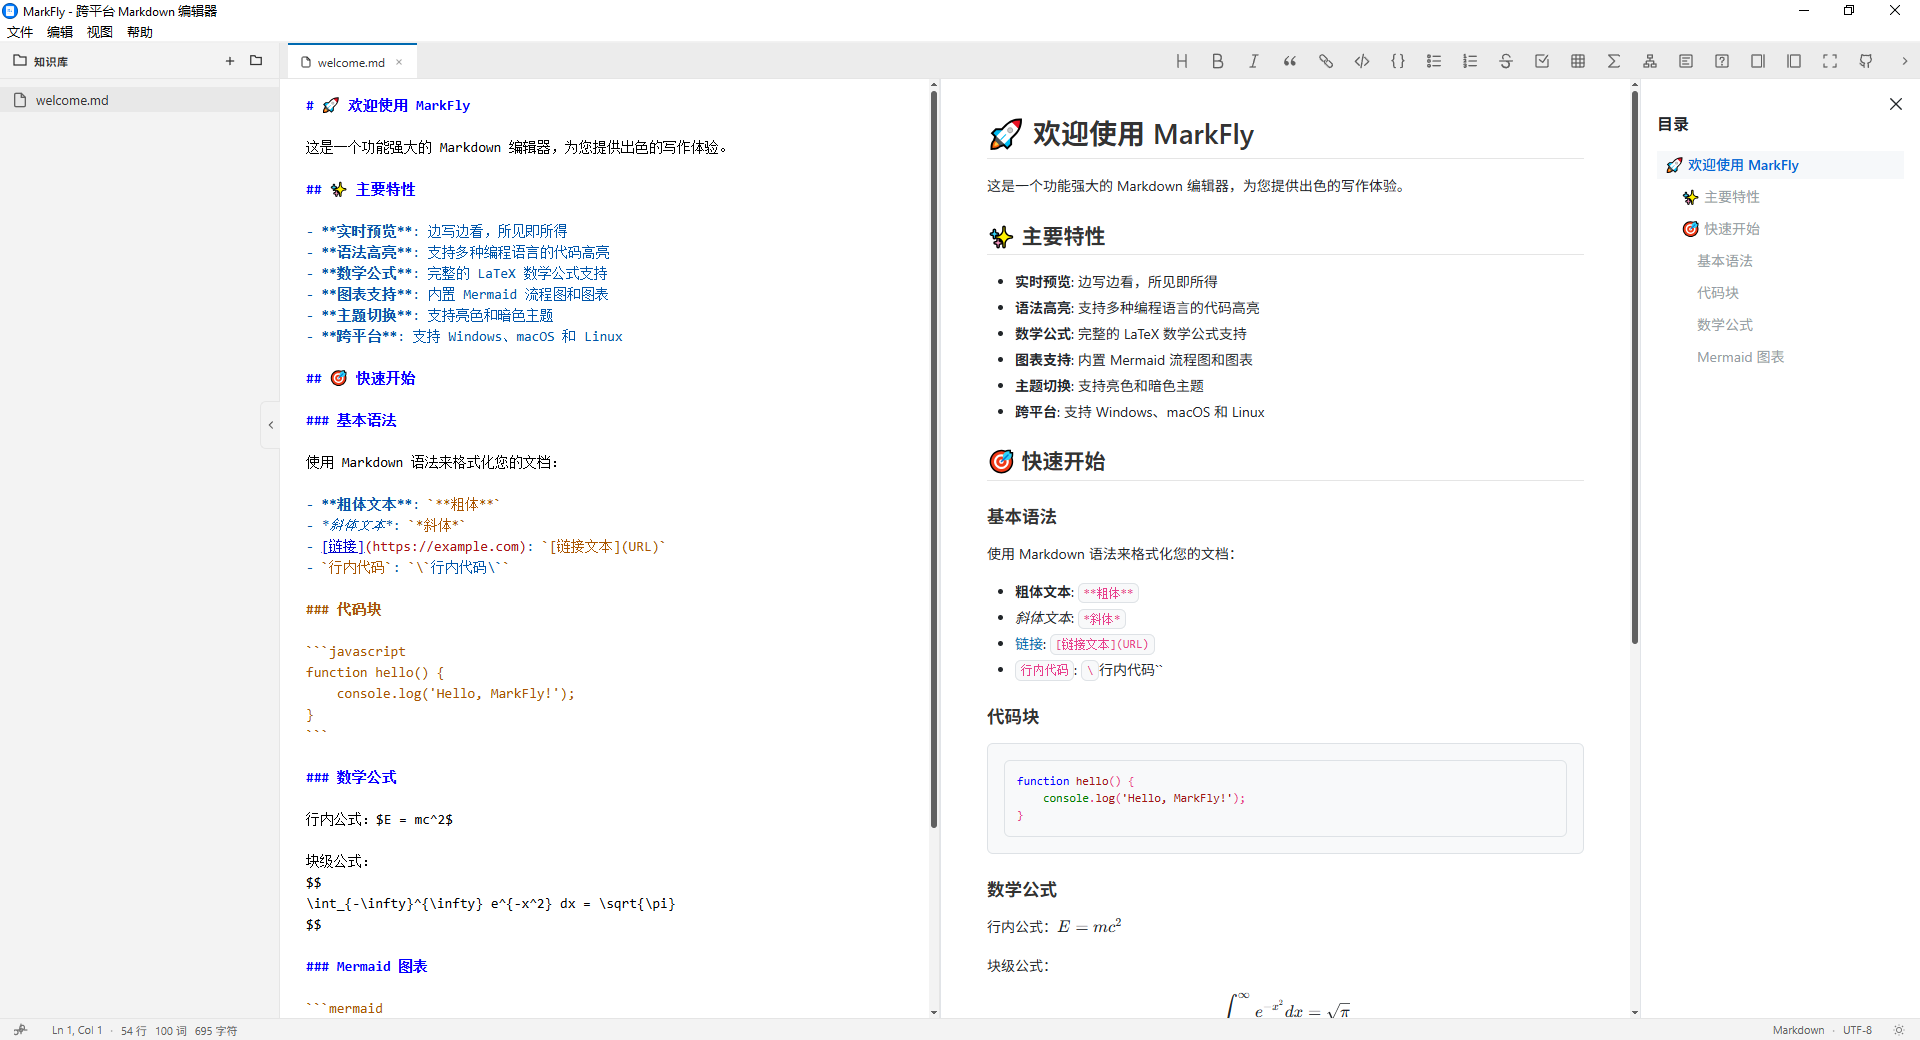
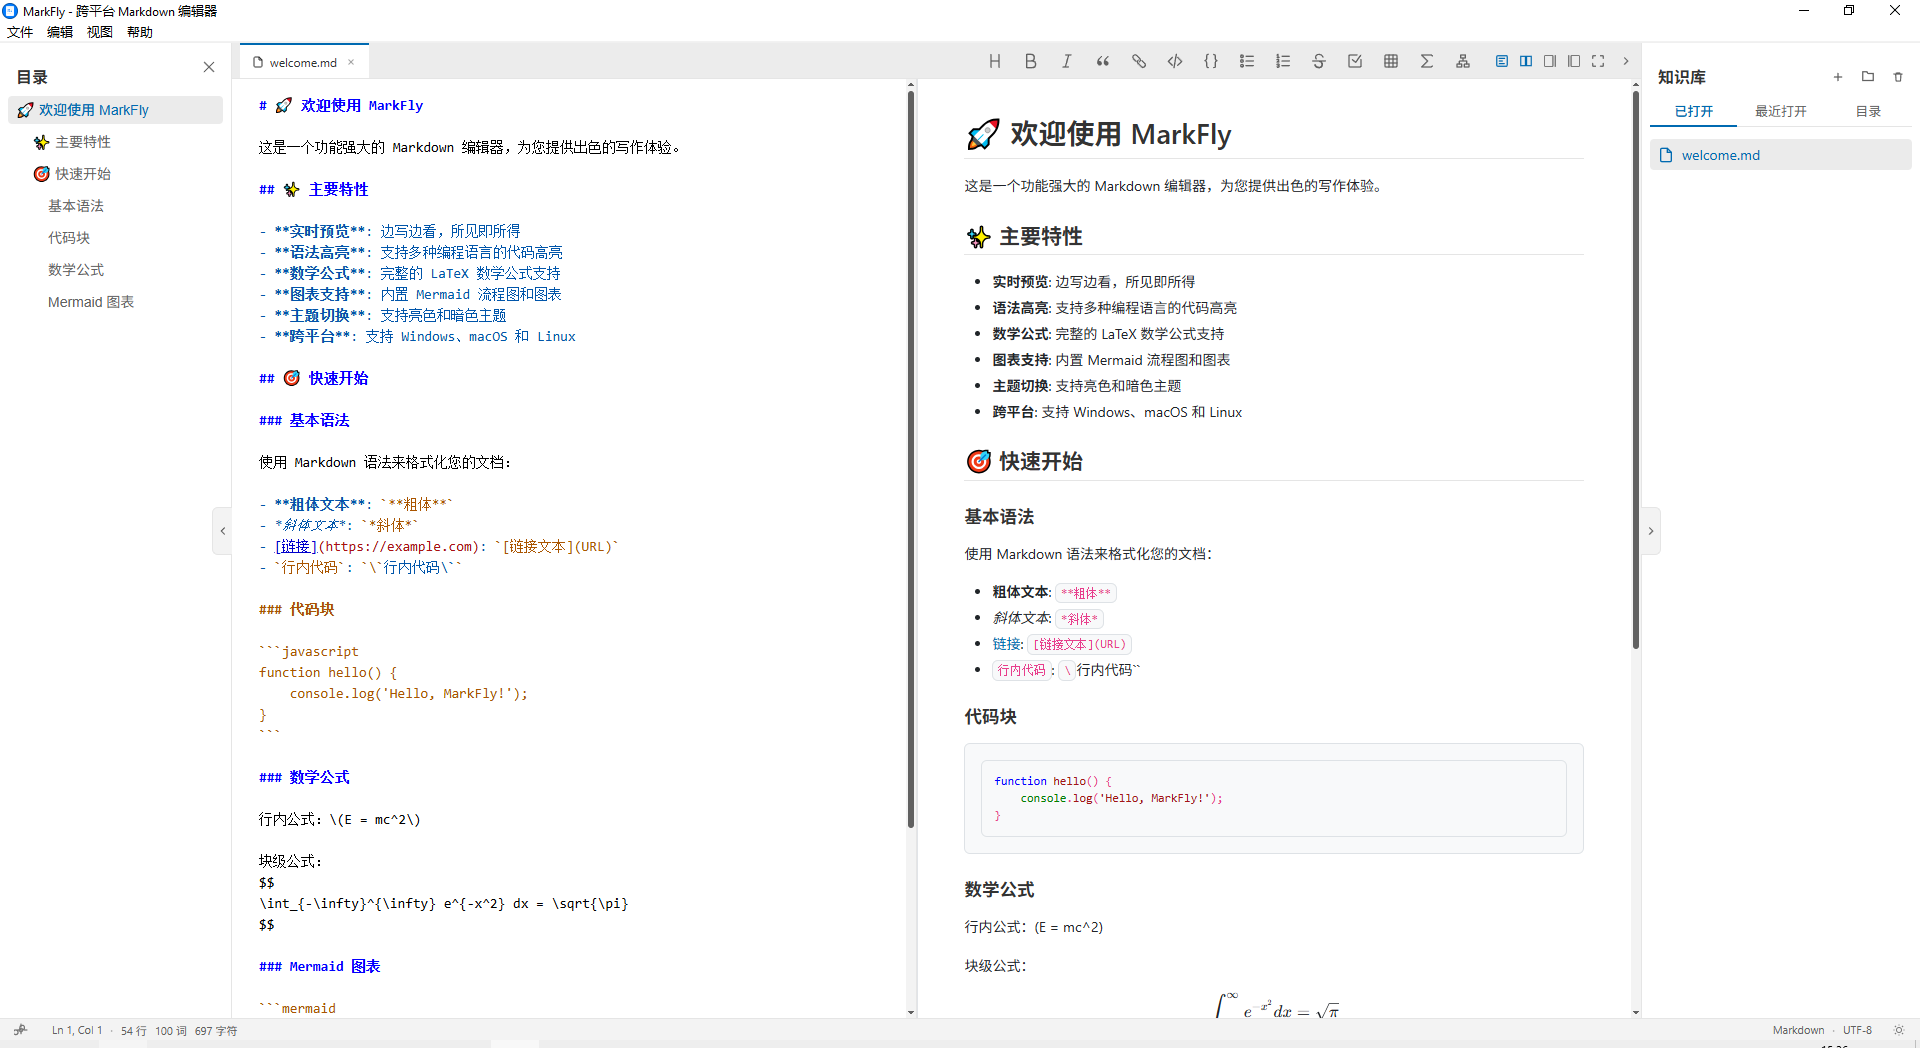
更新 README 项目截图与 v0.1.7 说明。

diff --git a/README.md b/README.md
@@ -8,25 +8,36 @@
 
 ## 📦 最新版本发布
 
-### MarkFly v0.1.6 (2026-08-07)
+### MarkFly v0.1.7 (2026-11-16)
 
-[v0.1.6 Release 页面](https://github.com/TimzChen/MarkFly/releases/tag/v0.1.6) · [全部版本](https://github.com/TimzChen/MarkFly/releases)
+[v0.1.7 Release 页面](https://github.com/TimzChen/MarkFly/releases/tag/v0.1.7) · [全部版本](https://github.com/TimzChen/MarkFly/releases)
 
 #### 下载安装包
 
 - **Windows**
-  - [MarkFly_0.1.6_x64-setup.exe](https://github.com/TimzChen/MarkFly/releases/download/v0.1.6/MarkFly_0.1.6_x64-setup.exe)
+  - [MarkFly_0.1.7_x64-setup.exe](https://github.com/TimzChen/MarkFly/releases/download/v0.1.7/MarkFly_0.1.7_x64-setup.exe)
 
 > macOS / Linux 安装包可通过 [GitHub Actions 手动发版](https://github.com/TimzChen/MarkFly/actions/workflows/manual-release.yml) 构建，或参考下方「构建应用」在本地打包。
 
-#### v0.1.6 更新内容
+#### v0.1.7 更新内容
 
-- **预览本地文件链接**：点击 `d:\...` / 相对路径的 Markdown 链接，可在应用内打开对应文件
-- **外链用系统浏览器打开**：`http(s)` / `mailto` 不再在 WebView 内跳转
-- **金额美元符不再被吃掉**：关闭单 `$` 行内公式误解析，`$412` 等按普通文本显示
-- **打开失败可见提示**：链接目标不存在或无法读取时，顶部给出短暂提示
+- **知识库三栏**：已打开 / 最近打开 / 目录；打开的文件夹只在本次会话有效
+- **目录在左、知识库在右**：均可拖宽、折叠，样式对齐
+- **窗口全屏**：`F11` 进入全屏，同时收起原生菜单和知识库
+- **布局由顶栏接管**：分屏 / 仅编辑 / 仅预览，去掉 ByteMD 右侧重复按钮
+- **主题默认跟随系统**：状态栏或 `Ctrl+T` 只在浅色和深色之间切换
+- **新建不落盘**：未保存的新文件只在内存里，保存才写入磁盘
+- **Mermaid 对齐 Cursor**：流程图方向与 subgraph 顺序不再和预览里看到的反着来
 
 #### 历史版本
+
+<details>
+<summary>MarkFly v0.1.6 (2026-08-07)</summary>
+
+- **Windows**: [MarkFly_0.1.6_x64-setup.exe](https://github.com/TimzChen/MarkFly/releases/download/v0.1.6/MarkFly_0.1.6_x64-setup.exe)
+- 预览本地链接跳转、外链系统浏览器打开、关闭单 `$` 公式误解析
+
+</details>
 
 <details>
 <summary>MarkFly v0.1.5 (2026-08-06)</summary>
@@ -135,7 +146,7 @@ MarkFly 的目标是成为一款轻量级、高性能且功能丰富的 Markdown
 
 ### 🎨 精心设计
 - 简洁直观的界面
-- 深色/浅色主题自动适配
+- 主题默认跟随系统，也可钉成浅色或深色
 - 响应式设计，适配不同屏幕尺寸
 
 ### 🌍 开源免费
@@ -147,8 +158,8 @@ MarkFly 的目标是成为一款轻量级、高性能且功能丰富的 Markdown
 
 - 🚀 **极致性能**: Boot 预览层 + 编辑器懒加载，启动与打开文件更快
 - 🖥 **跨平台支持**: 完美支持 Windows、macOS、Linux 三大操作系统
-- 📝 **实时预览**: 分屏 / 仅预览 / 标签切换，多种布局随心选
-- 🗂 **文件管理**: 侧边栏文件树、多标签页、打开文件夹、Shell 关联打开
+- 📝 **实时预览**: 分屏 / 仅预览 / 仅编辑，多种布局随心选
+- 🗂 **文件管理**: 知识库（已打开 / 最近打开 / 目录）、多标签页、Shell 关联打开
 - 🔔 **外部变更检测**: 文件被其他程序修改时顶部轻提示，点击即可重新加载
 - 🎨 **VS Code 风格界面**: 标签栏、状态栏、列表选中态主题统一
 - 🎨 **语法高亮**: 支持 180+ 编程语言的代码高亮显示
@@ -157,7 +168,8 @@ MarkFly 的目标是成为一款轻量级、高性能且功能丰富的 Markdown
 - 📋 **GFM 扩展**: 完整支持 GitHub Flavored Markdown 规范
 - 🔍 **图片缩放**: 点击图片即可放大查看细节
 - 💾 **文件管理**: 支持新建、打开、保存、另存为 Markdown 文件
-- 🌙 **主题切换**: 支持浅色 / 深色 / 跟随系统三种模式
+- 🌙 **主题切换**: 默认跟随系统；点一下在浅色和深色之间切，跟随系统留在设置里
+- 🖥 **窗口全屏**: `F11` 全屏写作，菜单和知识库自动收起
 - 🎯 **专注写作**: 简洁直观的界面设计，让你专注于内容创作
 
 ## 🔒 安全与隐私
@@ -219,7 +231,7 @@ Windows 本地发版（NSIS 安装包）：
 
 ```powershell
 .\scripts\build-release.ps1
-# 输出: src-tauri\target\release\bundle\nsis\MarkFly_0.1.6_x64-setup.exe
+# 输出: src-tauri\target\release\bundle\nsis\MarkFly_0.1.7_x64-setup.exe
 ```
 
 ## 📖 使用指南
@@ -231,9 +243,11 @@ Windows 本地发版（NSIS 安装包）：
 | `Ctrl/Cmd + N` | 新建文件 |
 | `Ctrl/Cmd + O` | 打开文件 |
 | `Ctrl/Cmd + S` | 保存文件 |
-| `Ctrl/Cmd + B` | 显示 / 隐藏侧边栏 |
+| `Ctrl/Cmd + B` | 显示 / 隐藏知识库 |
+| `Ctrl/Cmd + T` | 浅色 / 深色切换 |
+| `F11` | 窗口全屏 |
 
-预览模式切换、主题切换等可通过**视图菜单**或编辑器工具栏操作。
+预览布局、打开目录等可通过**文件 / 视图菜单**或顶栏按钮操作。
 
 ### 支持的文件格式
 
